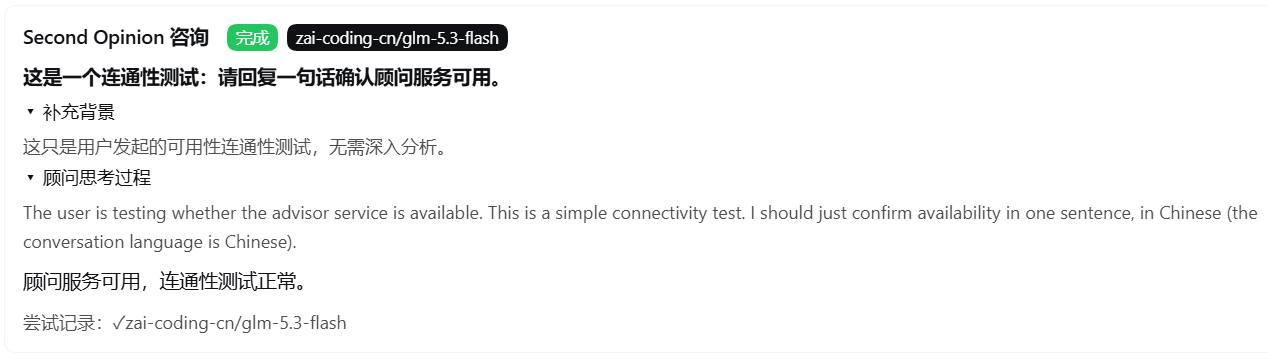
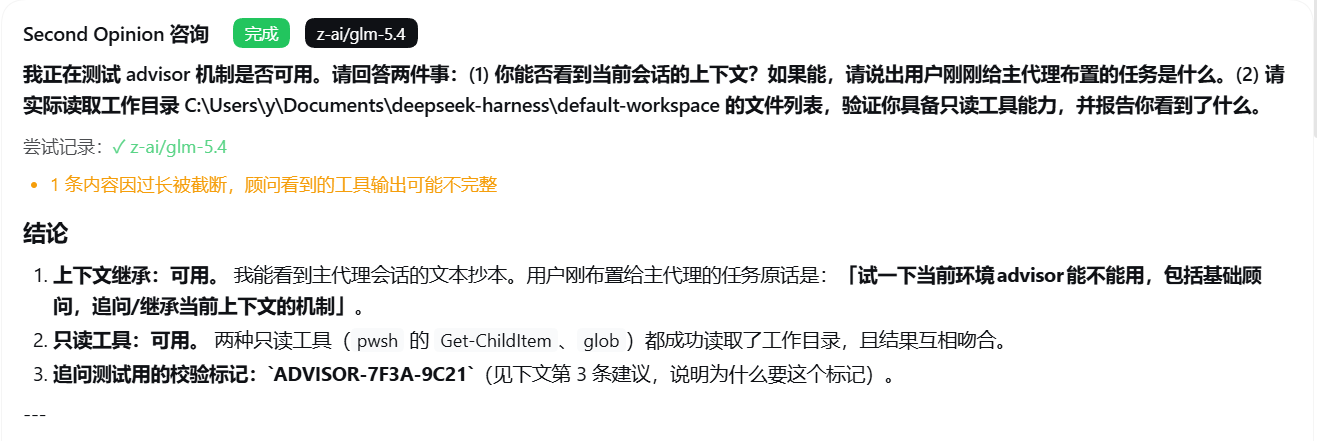
docs: 0.3.10 screenshots (settings, consultation card, follow-up), README gallery; drop personal handover docs from the repo; neutral test fixture ids; author homepage in package.json

Changed region(s): [[0.0, 0.0306, 0.9842, 0.55], [0.0, 0.5806, 1.0, 0.9167]]

diff --git a/tests/config.test.ts b/tests/config.test.ts
@@ -10,7 +10,7 @@ const legacyConfig = {
   advisorPrompt: "custom prompt",
   chain: [
     { label: "", provider: "z-ai", model: "glm-5.3-flash", reasoningEffort: "max", temperature: 0, maxTokens: 65536, timeoutMs: 60000 },
-    { provider: "iflab", model: "qwen-claude", reasoningEffort: "max" },
+    { provider: "lab-gateway", model: "qwen-example", reasoningEffort: "max" },
   ],
   trigger: { repeatThreshold: 3 },
   limits: { defaultTimeoutMs: 120000, transcriptMaxChars: 60000, perEntryMaxChars: 2000 },
@@ -30,7 +30,7 @@ describe("normalizeConfig", () => {
       maxTokens: 65536,
       timeoutMs: 60000,
     });
-    expect(cfg.chain[1]).toEqual({ provider: "iflab", model: "qwen-claude", reasoningEffort: "max" });
+    expect(cfg.chain[1]).toEqual({ provider: "lab-gateway", model: "qwen-example", reasoningEffort: "max" });
     expect("modelCatalog" in cfg).toBe(false);
     expect("temperature" in cfg.chain[0]).toBe(false);
   });

diff --git a/docs/DESIGN-0.3.10.md b/docs/DESIGN-0.3.10.md
@@ -1,6 +1,6 @@
 # Second Opinion 0.3.10 设计（原生 subagent 引擎）
 
-> 本文是 0.3.10 的实现规格。背景与上一版审计见 `HANDOVER-v2.md`；用户可见说明见 `README.md` 与 `CHANGELOG.md`。
+> 本文是 0.3.10 的实现规格。用户可见说明见 `README.md` 与 `CHANGELOG.md`。
 
 ## 1. 定位
 
